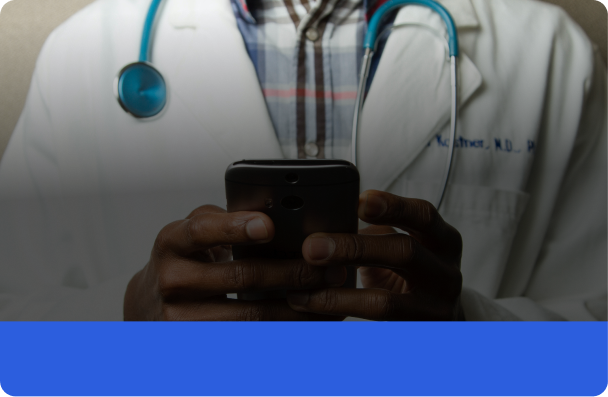
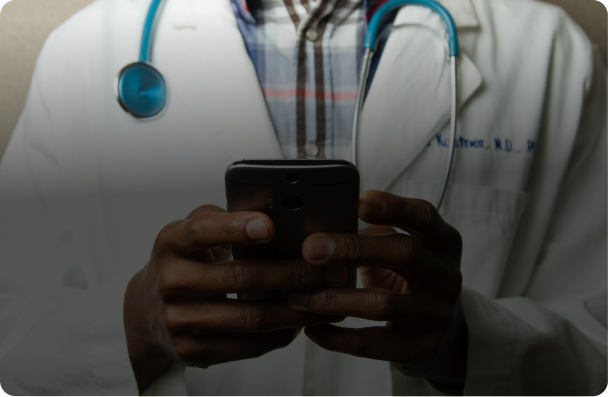
responsividade do artigo

Changed region(s): [[0.0, 0.7859, 1.0, 1.0]]

diff --git a/src/components/Article/Article.style.ts b/src/components/Article/Article.style.ts
@@ -6,52 +6,44 @@ export const ArticleCard = styled.article`
   margin-top: 15.5vh;
   margin-bottom: 20vh;
 
-  @media only screen and (max-width: 1400px){
-    margin-top: 11vh;
-    margin-bottom: 10vh;
-   }
+
 
   img{
-    margin-left: 1.2rem;
+    margin-left: 4rem;
     max-width: 100%;
   }
 
   h3{
   margin-top:136px;
   text-transform: initial uppercase;
-  margin-left: 1.2rem;
+  margin-left: 4rem;
   font-family: 'roboto', sans-serif;
   font-style: normal;
   font-weight: 600;
-  font-size: 32px;
+  font-size: 30px;
   line-height: 38px;
   color: #F5F5F5;
   :first-letter {
     text-transform: uppercase;
     }
-  @media only screen and (max-width: 525px){
-    font-size: 24px;
-    margin: 5rem 0 0 1.2rem ;
-   }
-  @media only screen and (max-width: 330px){
-    font-weight: 600;
-    font-size: 17px;
-    line-height: 21px;
-    margin: 1rem 0 0 1.2rem ;
+
+    @media only screen and (max-width: 500px){
+      margin-top: 67px;
+      font-weight: 600;
+      font-size: 17px;
+      line-height: 21px;
 
    }
-   @media only screen and (max-width: 1200px){
-      font-size: 18px;
-      line-height: 100%;
-      margin-bottom: 0.5rem;
-   }
+
   }
 
 
 
   h4{
     font-family: 'roboto', sans-serif;
-    margin-left: 1.2rem;
+    text-align: left;
+    margin-right: 2rem ;
+    margin-left: 4rem;
     margin-bottom: 0.7rem;
     font-style: normal;
     font-weight: 500;
@@ -62,17 +54,12 @@ export const ArticleCard = styled.article`
     :first-letter {
     text-transform: uppercase;
     }
-    @media only screen and (max-width: 1200px){
-      font-size: 15px;
-      line-height: 100%;
-      margin-bottom: 3rem;
-   }
-    @media only screen and (max-width: 525px){
-    font-size: 18px;
-    margin: 0 1.2rem 1rem;
-   }
-    @media only screen and (max-width: 420px){
-    font-size: 12px;
+
+    @media only screen and (max-width: 500px){
+      font-weight: 500;
+      font-size: 12px;
+      line-height: 150%;
+      letter-spacing: -0.011em;
 
    }
   }
@@ -82,11 +69,13 @@ export const ArticleCard = styled.article`
     -webkit-background-size: cover;
     -moz-background-size: cover;
     -o-background-size: cover;
-    background-size: 100% ;
+    background-size: 608px ;
     -webkit-border-radius: 50px;
     -moz-border-radius: 50px;
     border-radius: 15px;
     border: none;
+    padding: 0;
+
 
 }
 
@@ -95,18 +84,18 @@ export const ArticleCard = styled.article`
     -webkit-background-size: cover;
     -moz-background-size: cover;
     -o-background-size: cover;
-    background-size: 100% ;
+    background-size: 608px ;
     -webkit-border-radius: 50px;
-    -moz-border-radius: 50px;
     border-radius: 15px;
+    -moz-border-radius: 50px;
     border: none;
+    padding: 0;
 
 }
 
-.card{
-    max-width: 65.5vh;
-    padding: 0;
- }
+
+
+
 
 .readlink{
     padding-bottom: 5px;
@@ -114,26 +103,33 @@ export const ArticleCard = styled.article`
     font-family: 'Inter';
     font-style: normal;
     font-weight: 600;
-    font-size: 36.85px;
+    font-size: 37px;
     line-height: 45px;
     color: #F5F5F5;
-    margin: 23px 0;
+    background-color: #2C5EDE;
+
+    @media only screen and (min-width: 1400px ) and (min-height: 890px ){
+      margin-left: 20px;
+      margin-right: 20px;
+
+   }
+
     :first-letter {
     text-transform: uppercase;
     }
+    p{
+      margin-top: 50px;
 
-    @media only screen and (max-width: 990px){
-  padding-top: 25px;
+    }
+
+    @media only screen and (max-width: 500px){
+      font-weight: 600;
+      font-size: 20.1969px;
+      line-height: 24px;
+
    }
 
-    @media only screen and (max-width: 525px){
-    padding-top: 25px;
-    font-size: 20px;
-    margin: 0;
-   }
-    @media only screen and (max-width: 420px){
-    font-size: 12px;
-   }
+
 
 
 }

diff --git a/src/components/Article/Article.tsx b/src/components/Article/Article.tsx
@@ -1,37 +1,29 @@
 import { ArticleCard } from './Article.style'
 import barra from "../../assets/barracinza.png"
 
-type ArticleProps = {}
+type ArticleProps = {
+  text: string,
+  resume: string,
+  number: string
+}
 
-function Article({}: ArticleProps) {
+function Article({text, resume, number}: ArticleProps) {
 
   return (
-        <ArticleCard className='row justify-content-around gy-5'>
-          <div className="bg1 col-lg-6 card mx-1">
+        <ArticleCard className='row justify-content-around cardnormal'>
+          <div className={'bg'+number}>
             <div>
               <div>
-                <h3>Prontuário online: Entenda como é e como funciona</h3>
+                <h3>{text}</h3>
                 <img src={barra} alt="barra horizontal" />
               </div>
                 <div>
-                  <h4>com o avanço da tencologia na área da saúde, redes públicas e particulares estão aderindo ao novo...</h4>
-                  <p className='readlink'>ler mais</p>
+                  <h4>{resume}</h4>
+                  <div className='readlink'>
+                    <p>ler mais</p>
+                  </div>
                 </div>
               </div>
-            </div>
-
-            <div className="bg2 col-lg-6 card">
-            <div>
-              <div>
-                <h3>documento online abre novas possiblidades para área da saúde</h3>
-                <img src={barra} alt="barra horizontal" />
-              </div>
-            <div>
-                <h4>com o avanço da tencologia na área da saúde, redes públicas e particulares estão aderindo ao novo...</h4>
-                <p className='readlink'>ler mais</p>
-            </div>
-            </div>
-
             </div>
         </ArticleCard>
   )

diff --git a/src/pages/Home.tsx b/src/pages/Home.tsx
@@ -5,6 +5,7 @@ import { LoginModal } from "../components/Modal/LoginModal";
 import HighLight from "../components/HighLight/HighLight";
 import Parceiros from "../components/Parceiros/Parceiros";
 import { RegisterModal } from "../components/Modal/RegisterModal";
+import { Cards } from "./Home.style";
 
 
 
@@ -20,9 +21,19 @@ const Home = (props: HomeProps) => {
     {/* navbar */}
       <div className="container">
         <Section  />
-        <HighLight text="Confira nossos artigos"/>
-        <Article  />
-        <HighLight text="Nossos parceiros"/>
+          <HighLight text="Confira nossos artigos"/>
+          <Cards className="d-flex justify-content-around">
+              <Article
+              number="1"
+              text="Prontuário online: Entenda como é e como funciona"
+              resume="Com o avanço da tecnologia na área da saúde, redes públicas e particulares estão aderindo ao novo..."
+              />
+              <Article
+              number="2"
+              text="Documento online abre novas possiblidades para área da saúde"
+              resume="Com o avanço da tecnologia na área da saúde, redes públicas e particulares estão aderindo ao novo..."
+              />
+          </Cards>
         <Parceiros  />
       </div>
       {/* <LoginModal/> */}

diff --git a/src/pages/Home.style.ts b/src/pages/Home.style.ts
@@ -1,0 +1,21 @@
+import styled from 'styled-components'
+
+export const Cards = styled.div`
+
+.cardnormal{
+    max-width: 70vh;
+    padding: 0;
+    margin: 0 auto;
+    padding: 92px 0;
+ }
+
+
+
+  @media only screen and (max-width: 1365px){
+    display: inline !important;
+
+    padding: 92px 0;
+
+   }
+
+`
